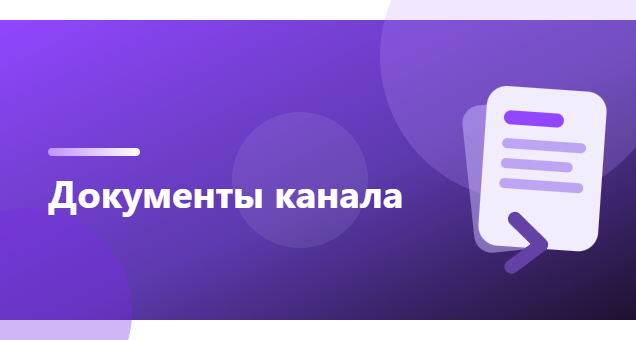
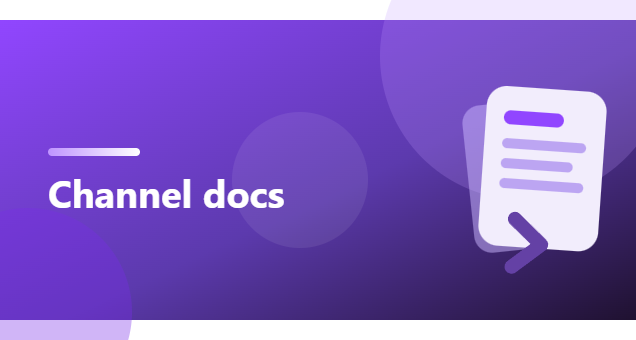
fix: update docs, images, fix list-item render

Changed region(s): [[0.0597, 0.5294, 0.6572, 0.6471]]

diff --git a/scripts/screenshot.ts b/scripts/screenshot.ts
@@ -1,11 +1,12 @@
 // Скриншоты панели для «Version Details» (1024×768, 4:3 — как требует Twitch):
 //   npm run screenshots
-// Как работает: собирает временную папку (viewer.html + демо-контент + демо-заголовок),
-// поднимает ОДНОРАЗОВЫЙ локальный сервер на случайном порту (только 127.0.0.1,
-// закрывается сам после снимка) и снимает панель headless Chrome/Edge.
+// Как работает: сперва собирает вьюер (npm run build:viewer), собирает временную
+// папку (viewer.html + демо-контент + демо-заголовок), поднимает ОДНОРАЗОВЫЙ
+// локальный сервер на случайном порту (только 127.0.0.1, закрывается сам после
+// снимка) и снимает панель headless Chrome/Edge.
 // Обновить демо-контент: правь content/docs/*.md и просто запусти скрипт снова.
 import matter from "gray-matter";
-import { spawn } from "node:child_process";
+import { spawn, spawnSync } from "node:child_process";
 import fs from "node:fs";
 import fsp from "node:fs/promises";
 import http from "node:http";
@@ -35,6 +36,21 @@ function findBrowser(): string {
 	throw new Error(
 		"Не найден Chrome/Edge — установи или укажи путь в переменной CHROME_PATH",
 	);
+}
+
+// 1. Сборка вьюера: скриншоты всегда со свежего бандла (dist/viewer),
+//    иначе в кадр уедет старый рендер из app/, собранный при прошлом pack.
+//    vite вызывается через node напрямую — без npm (на Windows .cmd-обёртка
+//    требует shell, а shell:true даёт DeprecationWarning).
+const viteBin = path.join(root, "node_modules", "vite", "bin", "vite.js");
+const build = spawnSync(
+	process.execPath,
+	[viteBin, "build", "-c", "vite.build.viewer.ts"],
+	{ stdio: "inherit", cwd: root },
+);
+if (build.status !== 0) {
+	console.error("build:viewer не собрался — скриншоты отменены");
+	process.exit(build.status ?? 1);
 }
 
 const browser = findBrowser();
@@ -83,10 +99,15 @@ fs.writeFileSync(
 );
 console.log("staging:", fs.readdirSync(STAGING).join(", "));
 
-// 3. viewer.html (собранный)
+// 3. viewer.html (собранный build:viewer) + его ассеты из dist/viewer
 fs.copyFileSync(
-	path.join(root, "app", "viewer.html"),
+	path.join(root, "dist", "viewer", "viewer.html"),
 	path.join(STAGING, "viewer.html"),
+);
+fs.cpSync(
+	path.join(root, "dist", "viewer", "assets"),
+	path.join(STAGING, "assets"),
+	{ recursive: true },
 );
 
 // 4. Страница-обёртка: панель в контексте, как она выглядит на канале
@@ -114,7 +135,7 @@ fs.writeFileSync(
   h1 span { color: #bf94ff; }
   p { font-size: 18px; color: #adadb8; margin: 0; line-height: 1.55; }
   .card {
-    width: 318px; height: 500px; border-radius: 10px; overflow: hidden;
+    width: 318px; height: 500px;
     box-shadow: 0 30px 80px rgba(0, 0, 0, 0.55), 0 0 0 1px rgba(255, 255, 255, 0.08);
     flex-shrink: 0;
   }
@@ -122,13 +143,13 @@ fs.writeFileSync(
 </style>
 <div>
   <div class="badge">Twitch Extension</div>
-  <h1>Enhanced<br><span>Twitch Panel</span></h1>
-  <p>Несколько документов<br>в одной панели канала</p>
+  <h1>DocPanel</h1>
+  <p>Multiple documents<br>in one channel panel</p>
 </div>
 <div class="card"><iframe src="/viewer.html?index=/index.json"></iframe></div>
 <script>
   if (new URLSearchParams(location.search).has('scroll')) {
-    document.querySelector('iframe').src = '/viewer.html?index=/index.json&demoScroll=1';
+    document.querySelector('iframe').src = '/viewer.html?index=/index.json&doc=rules';
   }
 </script>
 `,
@@ -139,6 +160,8 @@ const MIME: Record<string, string> = {
 	".html": "text/html",
 	".json": "application/json",
 	".md": "text/markdown",
+	".js": "text/javascript",
+	".css": "text/css",
 	".png": "image/png",
 };
 const server = http.createServer((req, res) => {
@@ -203,7 +226,7 @@ function shoot(
 }
 
 await shoot(1024, 768, "panel-1024x768.png", "/");
-await shoot(1024, 768, "panel-scrolled-1024x768.png", "/?scroll=1");
+await shoot(1024, 768, "panel-rules-1024x768.png", "/?scroll=1");
 
 server.close();
 try {

diff --git a/src/viewer/App.svelte b/src/viewer/App.svelte
@@ -42,6 +42,10 @@
 	const qp = new URLSearchParams(globalThis.location?.search ?? "").get(
 		"index",
 	);
+	// ?doc=<id> — открыть документ по id (скриншоты/аудит): демонстрация пейджера.
+	const qpDoc = new URLSearchParams(globalThis.location?.search ?? "").get(
+		"doc",
+	);
 	if (qp) {
 		loadIndex(qp);
 	} else {
@@ -91,7 +95,8 @@
 				return;
 			}
 			status = "ready";
-			await loadDoc(0);
+			const idx = qpDoc ? list.findIndex((d) => d.id === qpDoc) : 0;
+			await loadDoc(idx >= 0 ? idx : 0);
 		} catch (e) {
 			console.error(e);
 			loadError = String((e as Error).message ?? e);
@@ -120,7 +125,7 @@
 		if (tag === "ul" || tag === "ol") {
 			const items = rest[0];
 			return Array.isArray(items)
-				? [tag, ...items.map((li) => absolutize(li, base))]
+				? [tag, items.map((li) => absolutize(li, base))]
 				: n;
 		}
 		return [tag, ...rest.map((x) => absolutize(x, base))];

diff --git a/docs/release-texts.md b/docs/release-texts.md
@@ -1,0 +1,85 @@
+# DocPanel — тексты для ревью (Version Details / Status)
+
+Все поля копируются в консоль Twitch как есть. Раздел «Скопировать в консоль» —
+готовый текст на английском.
+
+## Скопировать в консоль
+
+### Name
+
+```
+DocPanel
+```
+
+### Summary
+
+```
+Show multiple documents in one channel panel: about, rules, schedule, FAQ. Content is plain Markdown from your own repo — no backend, no coding.
+```
+
+### Description
+
+```
+DocPanel turns a single Twitch panel into a small channel notebook. Instead of one static panel, you get a pager with several documents that viewers flip through: about you, chat rules, schedule, FAQ, commands, links — anything you write.
+
+All content lives in Markdown (.md) files in your own repository (GitHub, Gitea, any HTTP host). DocPanel loads them directly and renders them in the panel — no backend service, no build step, no extra cost.
+
+How it works
+- Write documents as plain Markdown: headings, bold/italic, lists, checkboxes, quotes, links, images.
+- Run the included `build-docs` tool (or the builder from this repo) to generate `index.json`.
+- In the panel config (inside the Twitch Extension Manager), paste the URL to your `index.json` and save.
+
+Features
+- Multiple documents in one panel with prev/next pager.
+- Per-document banners for a styled header.
+- Order and hide documents from the config — no rebuild needed.
+- Fit for dark and light Twitch themes.
+- HTTPS content hosts only; relative image paths are supported.
+- No tracking, no ads. Viewer and channel IDs never leave the browser.
+
+Installation
+1. Open Extensions in your Twitch Dashboard and install DocPanel.
+2. Configure the panel: paste the URL of your content repository's `index.json`.
+3. Load the list, adjust order or hide documents, save. Done.
+```
+
+### Категория
+
+```
+Streamer Tools
+```
+
+### Walkthrough Guide (Status → при сабмите на ревью)
+
+```
+Step 1. Open DocPanel config (Extension Manager → Configure).
+Step 2. Paste the URL to an index.json that lists the channel documents. If the URL is missing, the panel shows a "content URL not set" hint.
+Step 3. Click "Load list". The documents from index.json appear with their titles; the first one is shown in the panel preview.
+Step 4. Drag to reorder or hide documents, then Save. The panel on the channel shows the first document and a prev/next pager.
+Step 5. Verify: the panel displays the rendered document, arrows switch between documents, and the configuration persists after refresh.
+
+Notes for the review team: this is a panel-only extension with no backend. It does not request identity, chat, or bits. The streamer supplies the content URL themselves; without it the panel shows an empty-hint state. The extension makes no network calls except loading the Markdown content and index from the streamer-provided URL.
+```
+
+### Changelog (v0.2.0)
+
+```
+v0.2.0 — Initial submission.
+- Panel viewer + config panel.
+- Markdown rendering (headings, text styles, lists, checkboxes, quotes, links, images; unsupported constructs are skipped).
+- Document pager, banners, ordering and hiding via config.
+- Dark and light theme support.
+```
+
+## Шпаргалка по вкладкам консоли (для заполнения)
+
+| Вкладка         | Значение                                                                                                                          |
+| --------------- | --------------------------------------------------------------------------------------------------------------------------------- |
+| Version Details | Name/Summary/Description выше, Author Name, Category = Streamer Tools                                                             |
+| Image Assets    | `assets/logo-100x100.png` (100×100), `assets/discovery-300x200.png` (300×200), `assets/screenshots/panel-1024x768.png` (1024×768) |
+| Author Email    | твой email → подтвердить по письму; Support Email — можно тот же                                                                  |
+| URLs            | EULA/ToS URL и Privacy Policy URL = `legal/` страницы (Фаза 1 в release-plan.md)                                                  |
+| Capabilities    | Request Identity Link: No, Chat: No, конфигурация: Extensions Configuration Service                                               |
+| Monetization    | Bits No, Subscription No                                                                                                          |
+| Access          | Review-ок: Testing Allowlist очистить (после одобрения открыть всем)                                                              |
+| Status          | Review Channel URL = твой канал; Walkthrough Guide из этого файла                                                                 |

diff --git a/content/docs/about.md b/content/docs/about.md
@@ -1,18 +1,27 @@
 ---
-title: О канале
+title: About
 order: 1
 ---
 
-Привет! Я стримлю **игры и музыку** по вечерам.
+**DocPanel** is a Twitch extension that turns one 318×500 channel panel into a
+small notebook with several documents viewers flip through.
 
-## Расписание
+## What you get
 
-- Вт, Чт, Сб — с 19:00 МСК
-- Иногда _утренние_ стримы в выходные
+- Several documents in **one panel** with a prev/next pager
+- Content is plain **Markdown** from your own repo — no backend, no coding
+- Per-document banners, order and hide via config — no rebuild needed
+- Fits dark and light Twitch themes
 
-> Расписание может меняться — следи за постами в Discord.
+## How it works
 
-## Где меня найти
+1. Write documents as `.md` files (GitHub, Gitea, any HTTPS host).
+2. Run `build-docs` to generate `index.json`.
+3. Paste the `index.json` URL in the panel config and save.
 
-1. [Telegram](https://t.me/example) — анонсы
-2. [Discord](https://discord.gg/example) — общение
+> The panel loads your Markdown directly — no tracking, no ads.
+
+## Supported Markdown
+
+- Headings, **bold**, _italic_, ~~strike~~, `inline code`
+- Lists and checkboxes, links, images, quotes

diff --git a/content/docs/rules.md b/content/docs/rules.md
@@ -1,16 +1,16 @@
 ---
-title: Правила чата
+title: Chat rules
 order: 2
 ---
 
-## Общие правила
+## General rules
 
-1. Уважай друг друга — _без_ оскорблений и политики.
-2. Без спама и капса.
-3. Вопросы задавай в чат — модераторы помогут.
+1. Respect each other — _no_ insults or politics.
+2. No spam or ALL CAPS.
+3. Ask questions in chat — moderators will help.
 
-## Наказания
+## Penalties
 
-- Первый раз — предупреждение
-- Второй раз — **таймаут 10 минут**
-- Третий раз — бан
+- First time — a warning
+- Second time — **10-minute timeout**
+- Third time — ban
